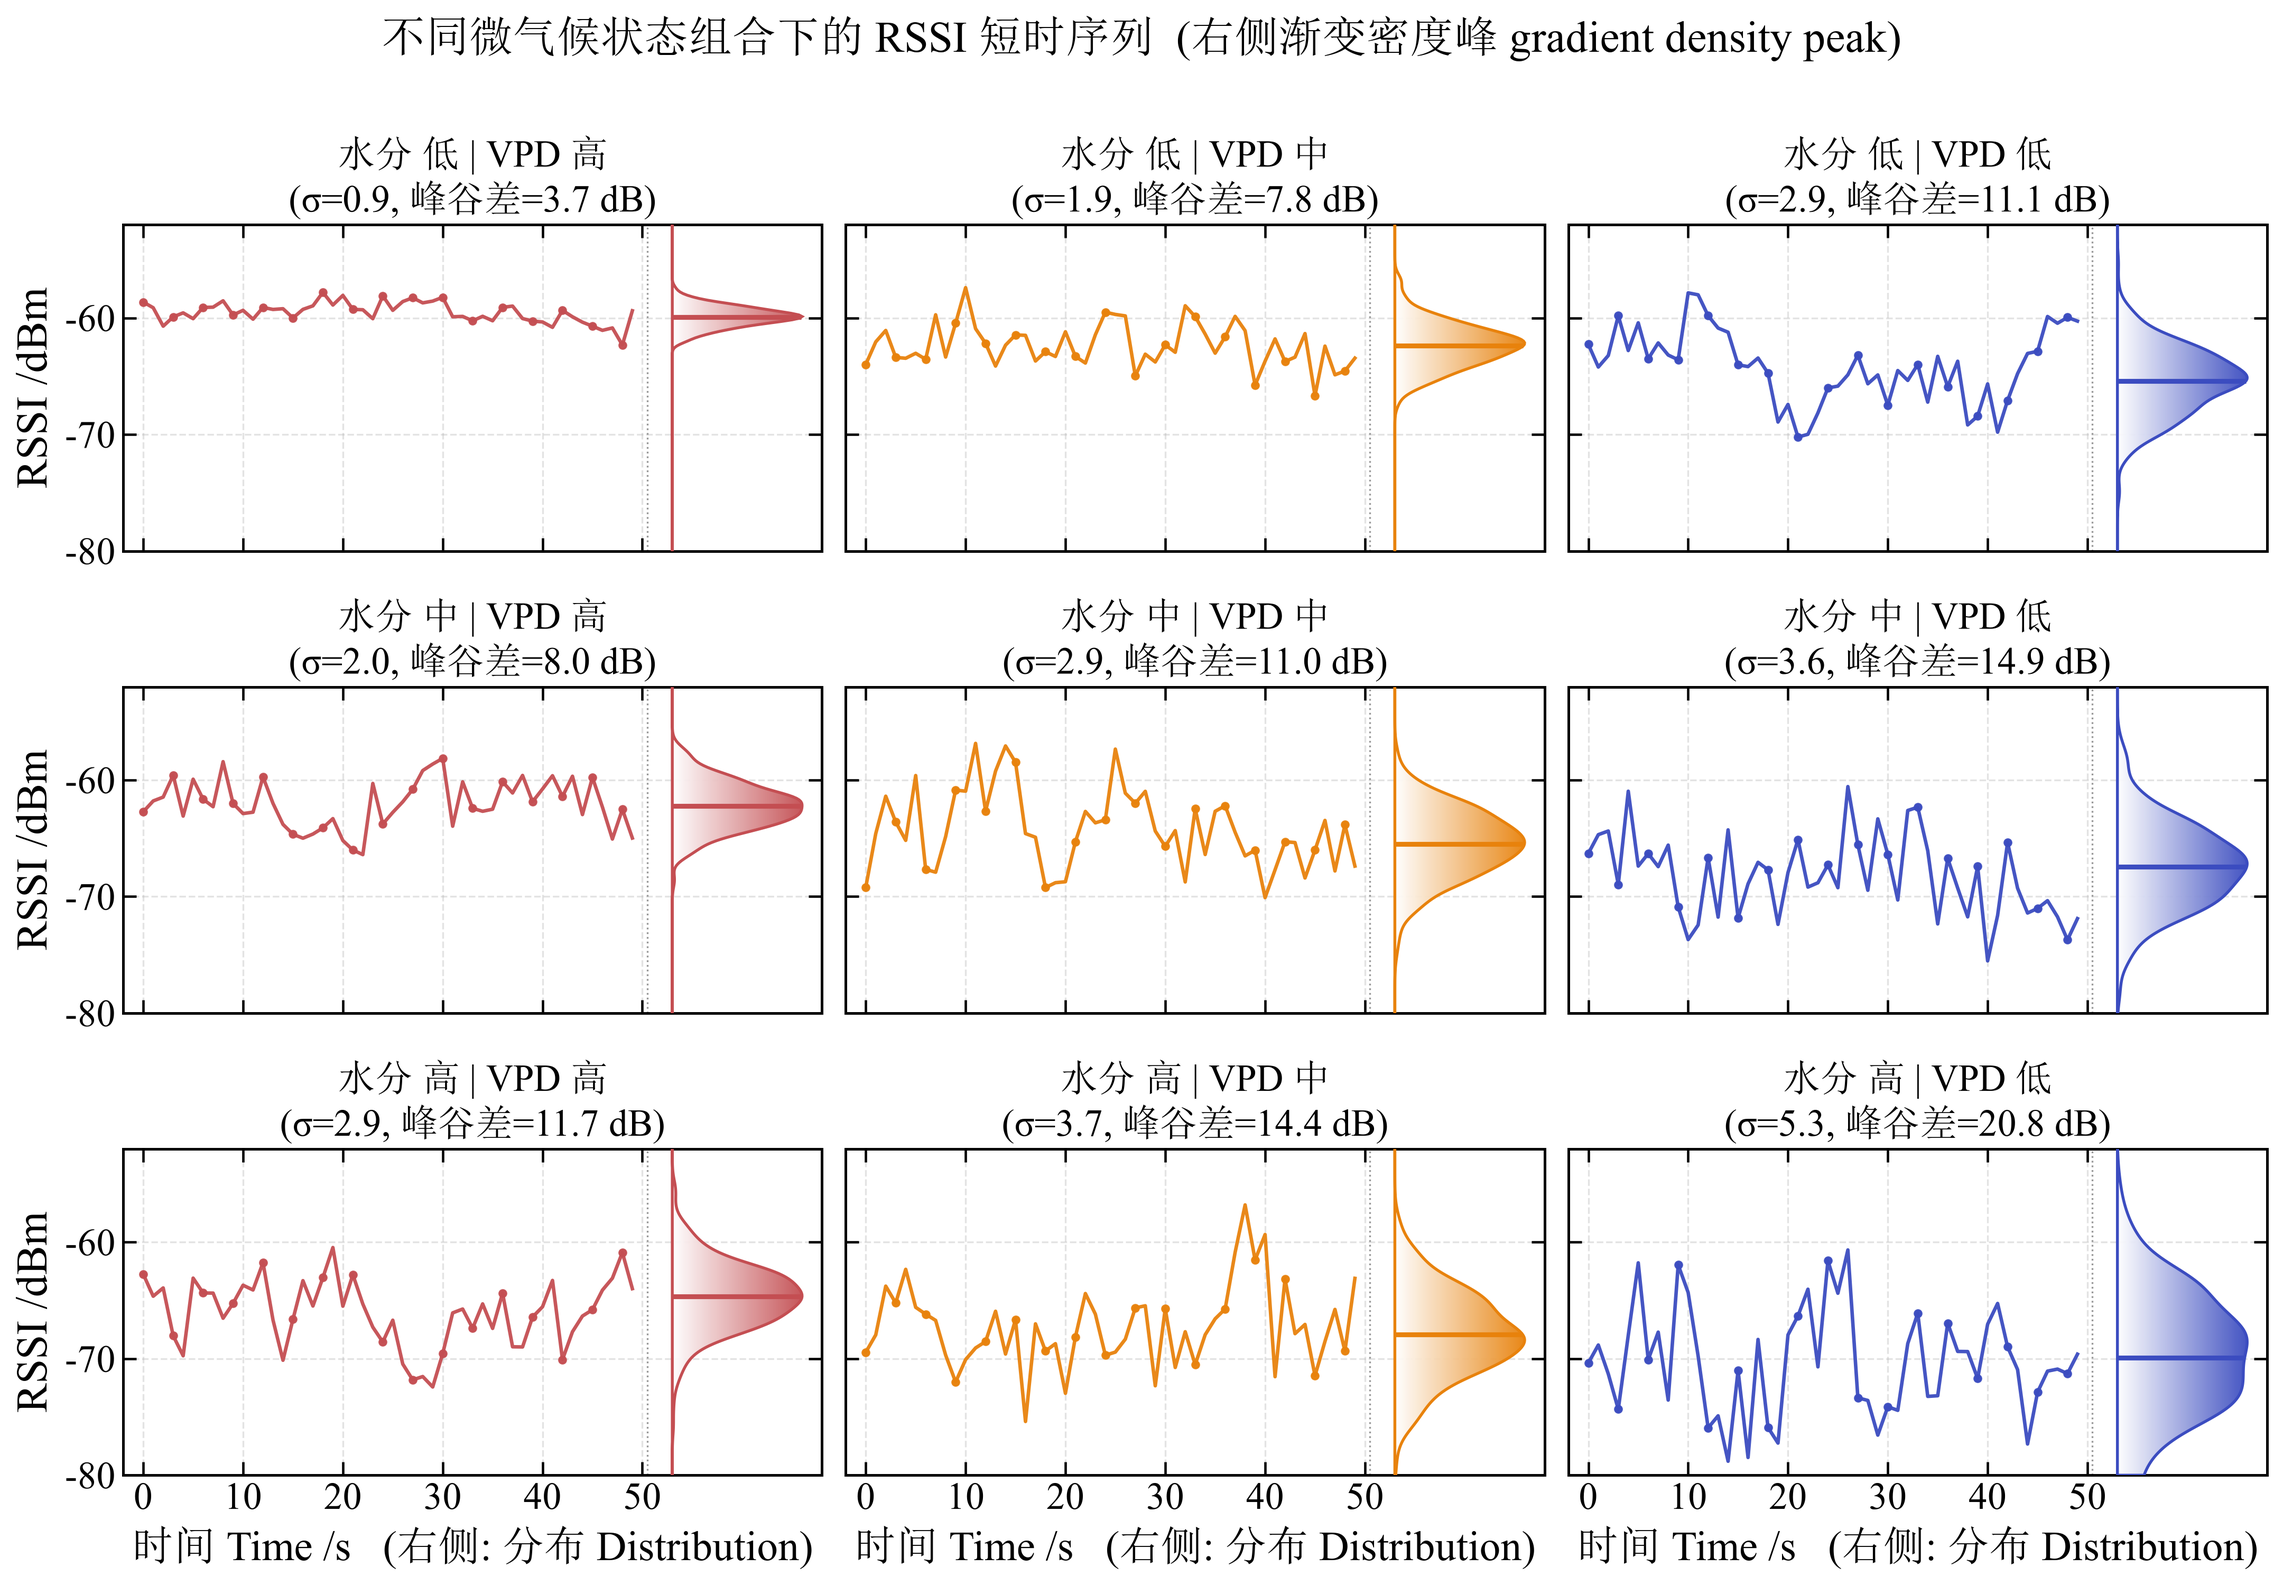
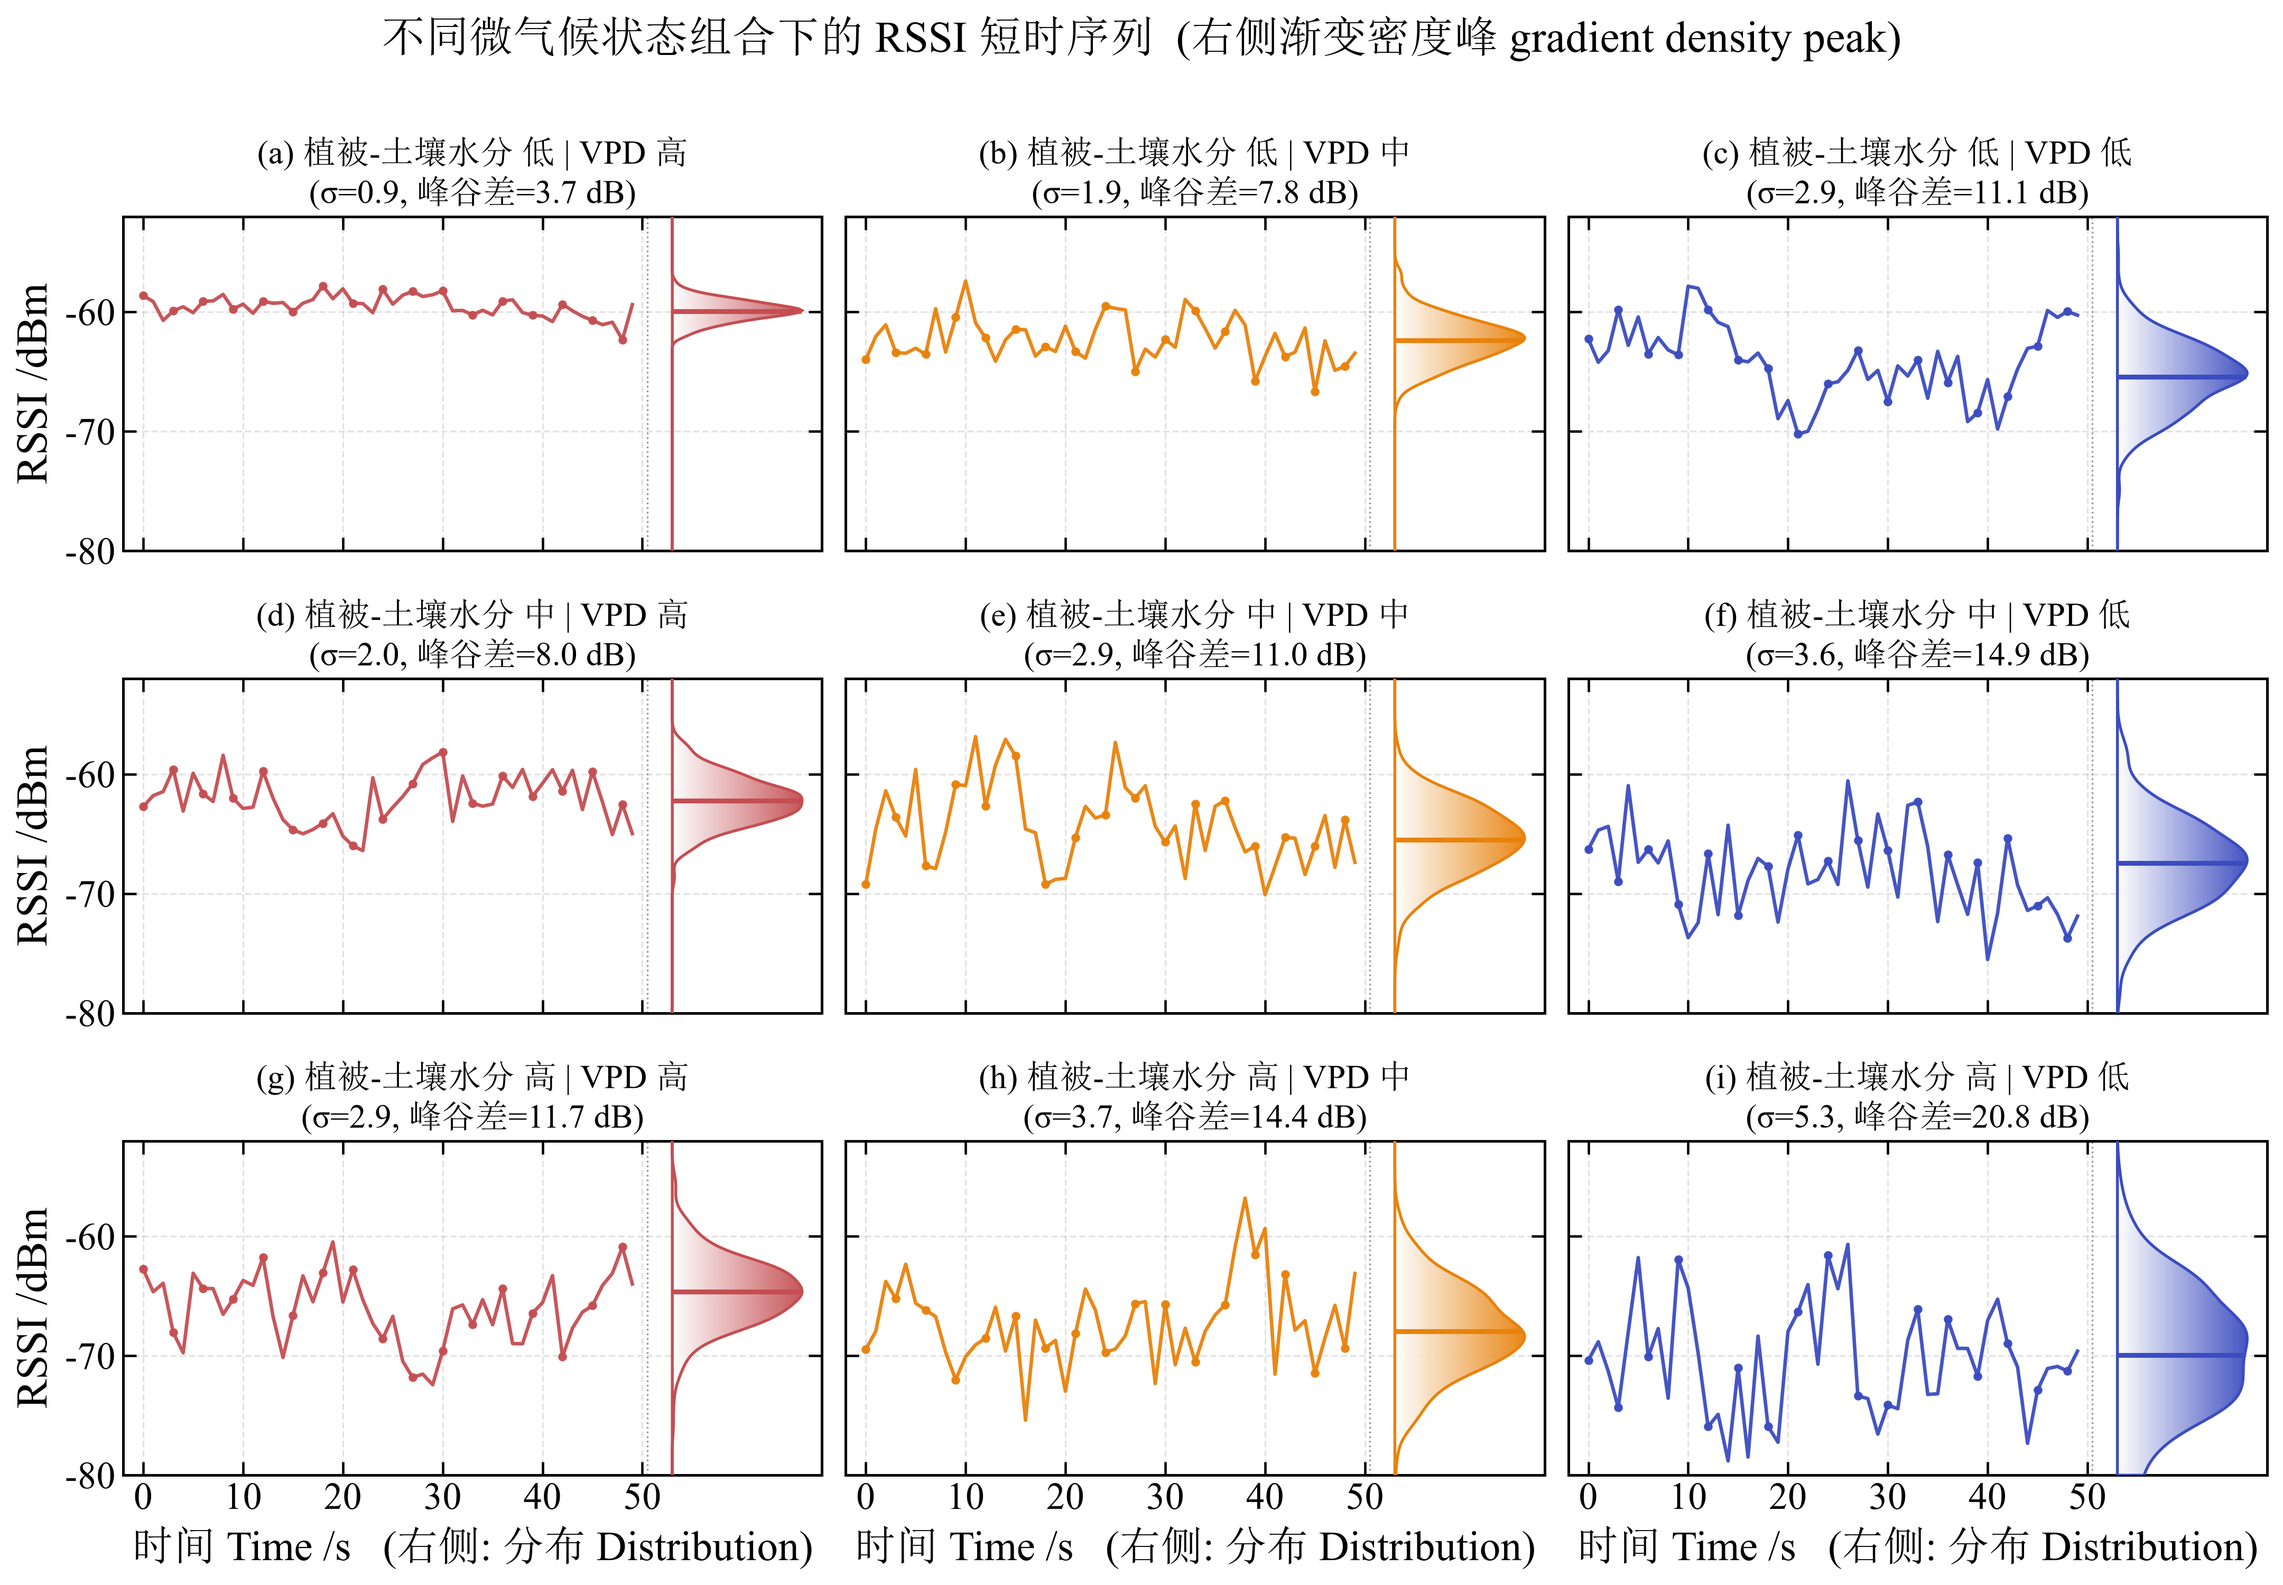
Finalize histogram-margin grid as fig_micro_grid_final; restore full 植被-土壤水分 label; add (a)-(i) panel letters

diff --git a/microclimate/rssi_microclimate.py b/microclimate/rssi_microclimate.py
@@ -251,9 +251,10 @@ def build_grid(right_kind, fname, subtitle):
 
             ax.axvline(50.5, color="0.6", lw=0.8, ls=":")
             st = stats[(mois, vpd_l)]
-            ax.set_title(f"\u6c34\u5206 {mois.split()[0]} | VPD {vpd_l.split()[0]}\n"
+            lab = "abcdefghi"[r * 3 + c]
+            ax.set_title(f"({lab}) \u690d\u88ab-\u571f\u58e4\u6c34\u5206 {mois.split()[0]} | VPD {vpd_l.split()[0]}\n"
                          f"(\u03c3={st['std']:.1f}, \u5cf0\u8c37\u5dee={st['p2p']:.1f} dB)",
-                         fontsize=17)
+                         fontsize=15)
             ax.set_ylim(-80, -52)
             ax.set_xlim(-2, X0 + XW + 2)
             ax.set_xticks([0, 10, 20, 30, 40, 50])
